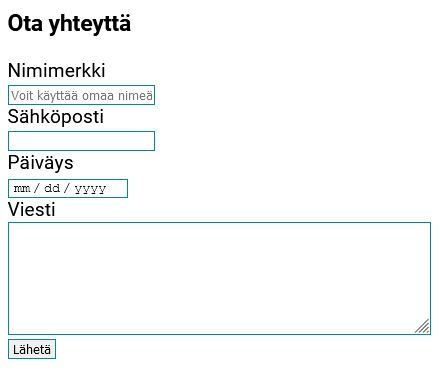
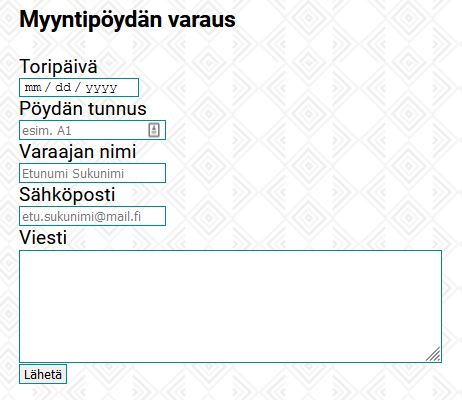
update demo5

Changed region(s): [[0.0, 0.1471, 1.0, 0.9706], [0.0, 0.0, 0.5318, 0.1176]]

diff --git a/demos/d5_kalatori/ohjeet/lomake_ohje.html b/demos/d5_kalatori/ohjeet/lomake_ohje.html
@@ -17,7 +17,9 @@
         font-size: 1.2em;
         box-sizing: border-box;
     }
-
+    table td{
+        padding: 0 1em;
+    }
 </style>
 </head>
 <body>
@@ -72,14 +74,29 @@
 </xmp>
 <hr>
 <p>Lomakkeen input-kenttien name-parametrit tulee olla samat,<br>kuin lomakkeen vastaanottavassa nettisivussa on määritelty</p>
-<ul>
 
-    <li><b>Nimimerkki</b>&emsp;name="name"</li>
-    <li><b>Sähköposti</b>&emsp;name="email"</li>
-    <li><b>Päiväys</b>&emsp;&emsp;name="date"</li>
-    <li><b>Viesti</b>&emsp;&emsp;&emsp;name="message"</li>
-
-</ul>
+<table>
+    <tr>
+        <td>Päiväys</td>
+        <td>name="date"</td>
+    </tr>
+    <tr>
+        <td>Pöytä</td>
+        <td>name="tableid"</td>
+    </tr>
+    <tr>
+        <td>Nimi</td>
+        <td>name="fullname"</td>
+    </tr>
+    <tr>
+        <td>Sähköposti</td>
+        <td>name="email"</td>
+    </tr>
+    <tr>
+        <td>Viesti</td>
+        <td>name="message"</td>
+    </tr>
+</table>
 <hr>
 <b>Kokeile lomakkeen toimintaa:</b>
 <p>Täytä ja lähetä lomake</p>
@@ -104,20 +121,23 @@ header('Content-Type: application/json; charset=utf-8');
 $myObj = new stdClass();
 $myObj->message = 'No Message';
 
-if (isset($_POST['name'])){
-    $myObj->name = strval($_POST['name']);
+if (isset($_POST['date'])){
+    $myObj->date = $_POST['date'];
+}
+if (isset($_POST['tableid'])){
+    $myObj->tableid = $_POST['tableid'];
+}
+if (isset($_POST['fullname'])){
+    $myObj->fullname = $_POST['fullname'];
 }
 if (isset($_POST['email'])){
-    $myObj->email = strval($_POST['email']);
-}
-if (isset($_POST['date'])){
-    $myObj->date = strval($_POST['date']);
+    $myObj->email = $_POST['email'];
 }
 if (isset($_POST['message'])){
-    $myObj->message = strval($_POST['message']);
+    $myObj->message = $_POST['message'];
 }
 
-echo json_encode($myObj);
+echo json_encode($myObj, JSON_UNESCAPED_UNICODE);
 
 </xmp>
 

diff --git a/demos/d5_kalatori/ohjeet/index.html b/demos/d5_kalatori/ohjeet/index.html
@@ -31,13 +31,13 @@
     <ul>
         <li><a href="header_ohje.html" >OSA 1: Header</a></li>
         <li><a href="markkinat_ohje.html">OSA 2: Markkinat</a></li>
-        <li><a href="hinnasto_ohje.html"> OSA 3: Hinnasto</a></li>
-        <li><a href="lomake_ohje.html"> OSA 4: Yhteys</a></li>
-        <li><a href="sijainti_ohje.html"> OSA 5: Sijainti</a></li>
-        <li><a href="footer_ohje.html"> OSA 6: Footer</a></li>
+        <li><a href="hinnasto_ohje.html">OSA 3: Hinnasto</a></li>
+        <li><a href="lomake_ohje.html">OSA 4: Yhteys</a></li>
+        <li><a href="sijainti_ohje.html">OSA 5: Sijainti</a></li>
+        <li><a href="footer_ohje.html">OSA 6: Footer</a></li>
     </ul>
     <br>
-  <img src="img/layout_kalatori-01.jpg" alt="">
+  <img src="img/layout_kalatori.jpg" alt="layout kalatori">
 
 
 </body>
